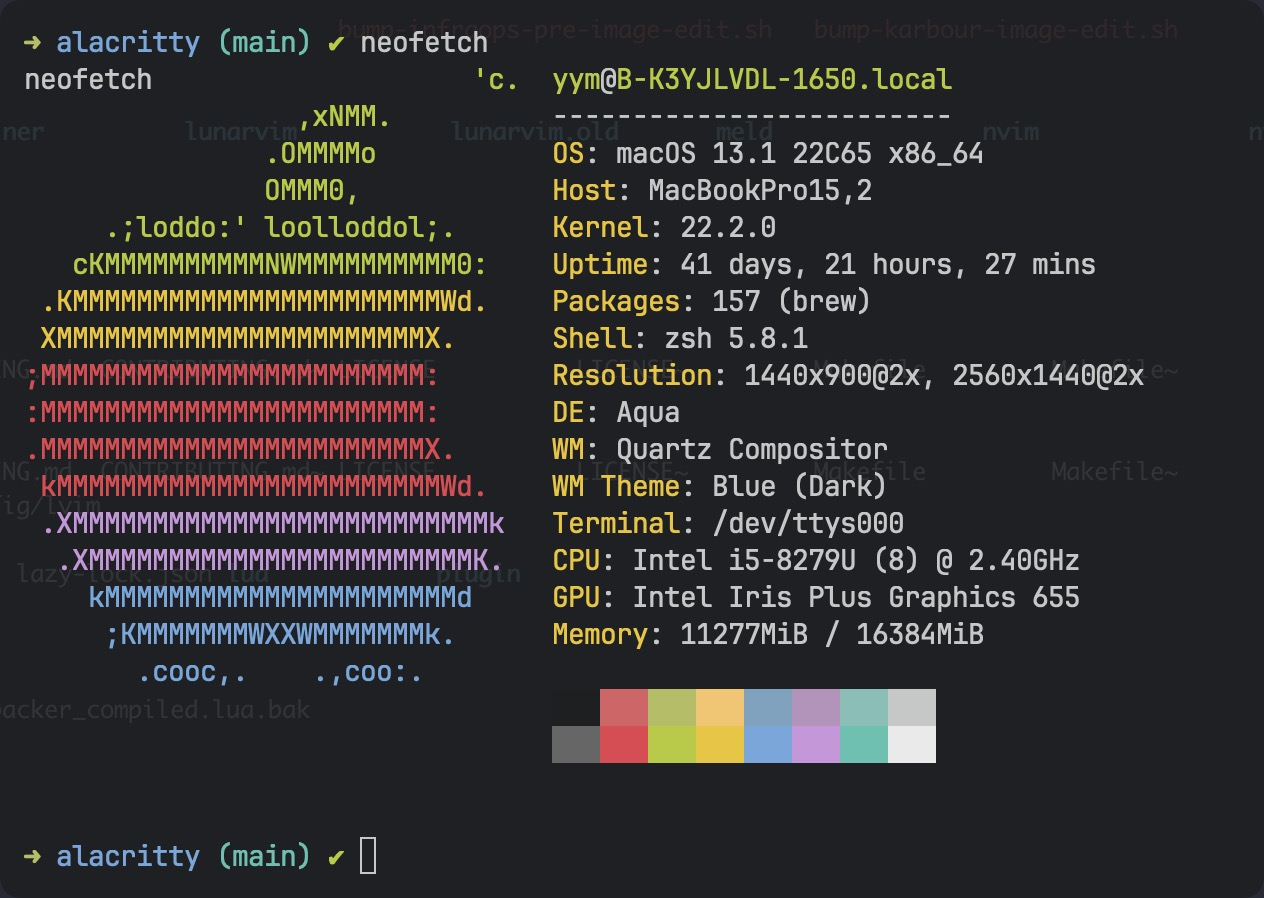
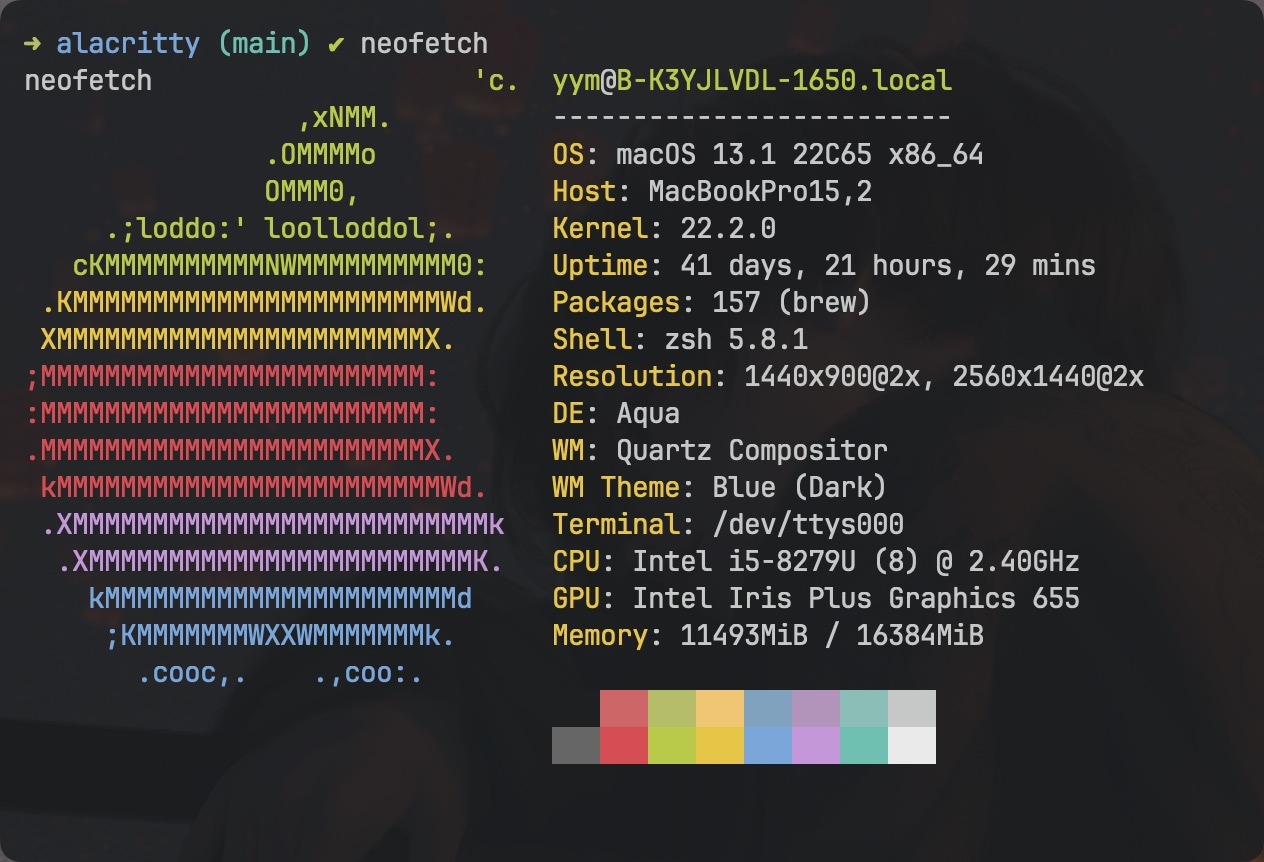
docs: adjust screenshot

diff --git a/Readme.md b/Readme.md
@@ -1,7 +1,7 @@
 # alacritty
 My [alacritty](https://github.com/alacritty/alacritty) configuration. It looks like this after being configured. 👇
 
-![](./assets/screenshot-1.jpg)
+![](./assets/screenshot-2.jpg)
 
 ## Usage
 ```shell
